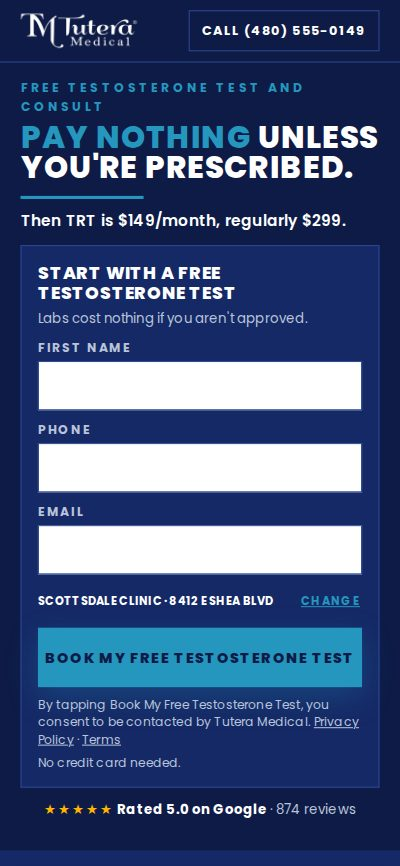
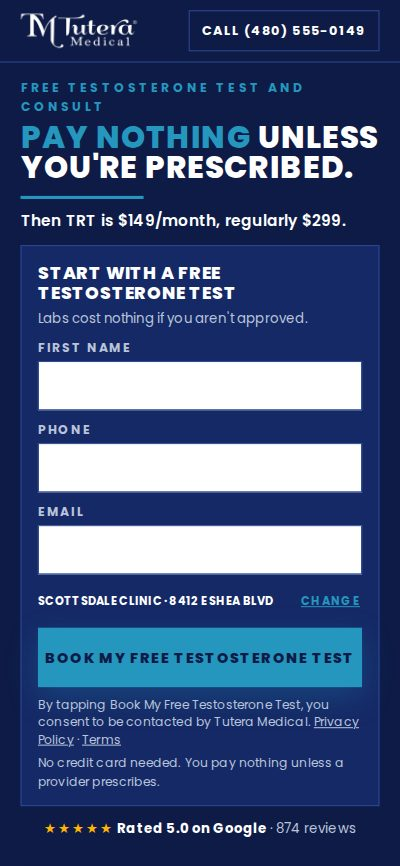
Top form note on the three top picks and the Gameday and Dark Value Stack copy variants: No credit card needed. You pay nothing unless a provider prescribes.; Gameday thumbnails refreshed

Changed region(s): [[0.0, 0.873, 1.0, 1.0]]

diff --git a/pages/offer-first-pageb/index.html b/pages/offer-first-pageb/index.html
@@ -688,7 +688,7 @@
         </select></label></div>
         <button type="submit" class="hd-btn">Book My Free Testosterone Test</button>
         <p class="hd-consent-line">By tapping Book My Free Testosterone Test, you consent to be contacted by Tutera Medical. <a href="https://tuteramedical.com/privacy-policy/" target="_blank" rel="noopener">Privacy Policy</a> &middot; <a href="https://tuteramedical.com/terms-of-service/" target="_blank" rel="noopener">Terms</a></p>
-        <p class="hd-form-note">No credit card needed.</p>
+        <p class="hd-form-note">No credit card needed. <span style="white-space:nowrap">You pay nothing</span> unless a provider prescribes.</p>
       </form>
     </div>
     <p class="hd-rating hd-rate1 hd-rate-under"><span class="hd-stars" aria-hidden="true">&#9733;&#9733;&#9733;&#9733;&#9733;</span><span><b>Rated 5.0 on Google</b> &middot; 874 reviews</span></p>

diff --git a/pages/gameday/index.html b/pages/gameday/index.html
@@ -218,7 +218,7 @@ footer .lc{text-transform:none;letter-spacing:0;font-size:12.5px}
             </select></div>
             <button class="btn" type="submit">Book My Free Testosterone Test</button>
             <p class="consent">By tapping Book My Free Testosterone Test, you consent to be contacted by Tutera Medical. <a href="https://tuteramedical.com/privacy-policy/">Privacy Policy</a> · <a href="https://tuteramedical.com/terms-of-service/">Terms</a></p>
-            <p class="note">No credit card needed.</p>
+            <p class="note">No credit card needed. <span style="white-space:nowrap">You pay nothing</span> unless a provider prescribes.</p>
           </form>
         </div>
         <!-- GOOGLE RATING one-liner: count verified 2026-11-19 from the public Google listings: Scottsdale 422, Chandler 252, Glendale 200 = 874, all rated 5.0. -->

diff --git a/pages/main-dark-value-stack/index.html b/pages/main-dark-value-stack/index.html
@@ -421,7 +421,7 @@ footer{background:var(--ink2);color:#b9c4da;font-size:13px;padding:18px 0 96px}
           </select></div>
           <button class="btn" type="submit">Book My Free Testosterone Test</button>
           <p class="consent">By tapping Book My Free Testosterone Test, you consent to be contacted by Tutera Medical. <a href="https://tuteramedical.com/privacy-policy/">Privacy Policy</a> · <a href="https://tuteramedical.com/terms-of-service/">Terms</a></p>
-          <p class="note">No credit card needed.</p>
+          <p class="note">No credit card needed. <span style="white-space:nowrap">You pay nothing</span> unless a provider prescribes.</p>
         </form>
       </div>
       <!-- GOOGLE RATING: 874 = Scottsdale 422 + Chandler 252 + Glendale 200, all 5.0, verified 2026-11-19 from the public listings. -->

diff --git a/pages/copy/gameday-8/index.html b/pages/copy/gameday-8/index.html
@@ -216,7 +216,7 @@ footer .lc{text-transform:none;letter-spacing:0;font-size:12.5px}
             </select></div>
             <button class="btn" type="submit">Book My Free Test &amp; Consult</button>
             <p class="consent">By tapping Book My Free Test &amp; Consult, you consent to be contacted by Tutera Medical. <a href="https://tuteramedical.com/privacy-policy/">Privacy Policy</a> · <a href="https://tuteramedical.com/terms-of-service/">Terms</a></p>
-            <p class="note">No credit card needed.</p>
+            <p class="note">No credit card needed. <span style="white-space:nowrap">You pay nothing</span> unless a provider prescribes.</p>
           </form>
         </div>
         

diff --git a/pages/copy/gameday-3/index.html b/pages/copy/gameday-3/index.html
@@ -216,7 +216,7 @@ footer .lc{text-transform:none;letter-spacing:0;font-size:12.5px}
             </select></div>
             <button class="btn" type="submit">Book My Free Testosterone Test</button>
             <p class="consent">By tapping Book My Free Testosterone Test, you consent to be contacted by Tutera Medical. <a href="https://tuteramedical.com/privacy-policy/">Privacy Policy</a> · <a href="https://tuteramedical.com/terms-of-service/">Terms</a></p>
-            <p class="note">No credit card needed.</p>
+            <p class="note">No credit card needed. <span style="white-space:nowrap">You pay nothing</span> unless a provider prescribes.</p>
           </form>
         </div>
         

diff --git a/pages/copy/gameday-4/index.html b/pages/copy/gameday-4/index.html
@@ -216,7 +216,7 @@ footer .lc{text-transform:none;letter-spacing:0;font-size:12.5px}
             </select></div>
             <button class="btn" type="submit">Book My Free Testosterone Test</button>
             <p class="consent">By tapping Book My Free Testosterone Test, you consent to be contacted by Tutera Medical. <a href="https://tuteramedical.com/privacy-policy/">Privacy Policy</a> · <a href="https://tuteramedical.com/terms-of-service/">Terms</a></p>
-            <p class="note">No credit card needed.</p>
+            <p class="note">No credit card needed. <span style="white-space:nowrap">You pay nothing</span> unless a provider prescribes.</p>
           </form>
         </div>
         

diff --git a/pages/copy/gameday-6/index.html b/pages/copy/gameday-6/index.html
@@ -216,7 +216,7 @@ footer .lc{text-transform:none;letter-spacing:0;font-size:12.5px}
             </select></div>
             <button class="btn" type="submit">Book My Free Testosterone Test</button>
             <p class="consent">By tapping Book My Free Testosterone Test, you consent to be contacted by Tutera Medical. <a href="https://tuteramedical.com/privacy-policy/">Privacy Policy</a> · <a href="https://tuteramedical.com/terms-of-service/">Terms</a></p>
-            <p class="note">No credit card needed.</p>
+            <p class="note">No credit card needed. <span style="white-space:nowrap">You pay nothing</span> unless a provider prescribes.</p>
           </form>
         </div>
         

diff --git a/pages/copy/main-dark-value-stack-8/index.html b/pages/copy/main-dark-value-stack-8/index.html
@@ -408,7 +408,7 @@ footer{background:var(--ink2);color:#b9c4da;font-size:13px;padding:18px 0 96px}
           </select></div>
           <button class="btn" type="submit">Book My Free Test &amp; Consult</button>
           <p class="consent">By tapping Book My Free Test &amp; Consult, you consent to be contacted by Tutera Medical. <a href="https://tuteramedical.com/privacy-policy/">Privacy Policy</a> · <a href="https://tuteramedical.com/terms-of-service/">Terms</a></p>
-          <p class="note">No credit card needed.</p>
+          <p class="note">No credit card needed. <span style="white-space:nowrap">You pay nothing</span> unless a provider prescribes.</p>
         </form>
       </div>
       

diff --git a/pages/copy/main-dark-value-stack-3/index.html b/pages/copy/main-dark-value-stack-3/index.html
@@ -408,7 +408,7 @@ footer{background:var(--ink2);color:#b9c4da;font-size:13px;padding:18px 0 96px}
           </select></div>
           <button class="btn" type="submit">Book My Free Testosterone Test</button>
           <p class="consent">By tapping Book My Free Testosterone Test, you consent to be contacted by Tutera Medical. <a href="https://tuteramedical.com/privacy-policy/">Privacy Policy</a> · <a href="https://tuteramedical.com/terms-of-service/">Terms</a></p>
-          <p class="note">No credit card needed.</p>
+          <p class="note">No credit card needed. <span style="white-space:nowrap">You pay nothing</span> unless a provider prescribes.</p>
         </form>
       </div>
       

diff --git a/pages/copy/main-dark-value-stack-4/index.html b/pages/copy/main-dark-value-stack-4/index.html
@@ -408,7 +408,7 @@ footer{background:var(--ink2);color:#b9c4da;font-size:13px;padding:18px 0 96px}
           </select></div>
           <button class="btn" type="submit">Book My Free Testosterone Test</button>
           <p class="consent">By tapping Book My Free Testosterone Test, you consent to be contacted by Tutera Medical. <a href="https://tuteramedical.com/privacy-policy/">Privacy Policy</a> · <a href="https://tuteramedical.com/terms-of-service/">Terms</a></p>
-          <p class="note">No credit card needed.</p>
+          <p class="note">No credit card needed. <span style="white-space:nowrap">You pay nothing</span> unless a provider prescribes.</p>
         </form>
       </div>
       

diff --git a/pages/copy/main-dark-value-stack-6/index.html b/pages/copy/main-dark-value-stack-6/index.html
@@ -408,7 +408,7 @@ footer{background:var(--ink2);color:#b9c4da;font-size:13px;padding:18px 0 96px}
           </select></div>
           <button class="btn" type="submit">Book My Free Testosterone Test</button>
           <p class="consent">By tapping Book My Free Testosterone Test, you consent to be contacted by Tutera Medical. <a href="https://tuteramedical.com/privacy-policy/">Privacy Policy</a> · <a href="https://tuteramedical.com/terms-of-service/">Terms</a></p>
-          <p class="note">No credit card needed.</p>
+          <p class="note">No credit card needed. <span style="white-space:nowrap">You pay nothing</span> unless a provider prescribes.</p>
         </form>
       </div>
       

diff --git a/pages/copy/gameday-2/index.html b/pages/copy/gameday-2/index.html
@@ -216,7 +216,7 @@ footer .lc{text-transform:none;letter-spacing:0;font-size:12.5px}
             </select></div>
             <button class="btn" type="submit">Check My Testosterone Levels</button>
             <p class="consent">By tapping Check My Testosterone Levels, you consent to be contacted by Tutera Medical. <a href="https://tuteramedical.com/privacy-policy/">Privacy Policy</a> · <a href="https://tuteramedical.com/terms-of-service/">Terms</a></p>
-            <p class="note">No credit card needed.</p>
+            <p class="note">No credit card needed. <span style="white-space:nowrap">You pay nothing</span> unless a provider prescribes.</p>
           </form>
         </div>
         
